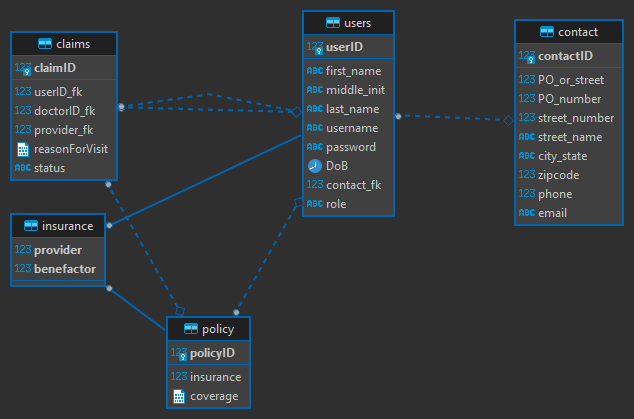
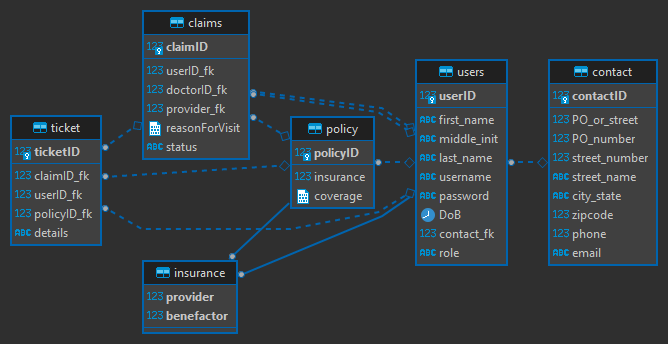
New

diff --git a/DataAccess/Entities/easypickingsContext.cs b/DataAccess/Entities/easypickingsContext.cs
@@ -21,6 +21,7 @@ namespace DataAccess.Entities
         public virtual DbSet<Policy> Policies { get; set; } = null!;
         public virtual DbSet<Test> Tests { get; set; } = null!;
         public virtual DbSet<Test2> Test2s { get; set; } = null!;
+        public virtual DbSet<Ticket> Tickets { get; set; } = null!;
         public virtual DbSet<User> Users { get; set; } = null!;
 
         protected override void OnModelCreating(ModelBuilder modelBuilder)
@@ -142,6 +143,38 @@ namespace DataAccess.Entities
                 entity.ToTable("test2");
 
                 entity.Property(e => e.Hello).HasColumnName("hello");
+            });
+
+            modelBuilder.Entity<Ticket>(entity =>
+            {
+                entity.ToTable("ticket", "P2");
+
+                entity.Property(e => e.TicketId).HasColumnName("ticketID");
+
+                entity.Property(e => e.ClaimIdFk).HasColumnName("claimID_fk");
+
+                entity.Property(e => e.Details)
+                    .IsUnicode(false)
+                    .HasColumnName("details");
+
+                entity.Property(e => e.PolicyIdFk).HasColumnName("policyID_fk");
+
+                entity.Property(e => e.UserIdFk).HasColumnName("userID_fk");
+
+                entity.HasOne(d => d.ClaimIdFkNavigation)
+                    .WithMany(p => p.Tickets)
+                    .HasForeignKey(d => d.ClaimIdFk)
+                    .HasConstraintName("FK__ticket__claimID___76969D2E");
+
+                entity.HasOne(d => d.PolicyIdFkNavigation)
+                    .WithMany(p => p.Tickets)
+                    .HasForeignKey(d => d.PolicyIdFk)
+                    .HasConstraintName("FK__ticket__policyID__787EE5A0");
+
+                entity.HasOne(d => d.UserIdFkNavigation)
+                    .WithMany(p => p.Tickets)
+                    .HasForeignKey(d => d.UserIdFk)
+                    .HasConstraintName("FK__ticket__userID_f__778AC167");
             });
 
             modelBuilder.Entity<User>(entity =>

diff --git a/DataAccess/Entities/User.cs b/DataAccess/Entities/User.cs
@@ -10,6 +10,7 @@ namespace DataAccess.Entities
             ClaimDoctorIdFkNavigations = new HashSet<Claim>();
             ClaimUserIdFkNavigations = new HashSet<Claim>();
             Policies = new HashSet<Policy>();
+            Tickets = new HashSet<Ticket>();
             Providers = new HashSet<Policy>();
         }
 
@@ -27,6 +28,7 @@ namespace DataAccess.Entities
         public virtual ICollection<Claim> ClaimDoctorIdFkNavigations { get; set; }
         public virtual ICollection<Claim> ClaimUserIdFkNavigations { get; set; }
         public virtual ICollection<Policy> Policies { get; set; }
+        public virtual ICollection<Ticket> Tickets { get; set; }
 
         public virtual ICollection<Policy> Providers { get; set; }
     }

diff --git a/DataAccess/Entities/Claim.cs b/DataAccess/Entities/Claim.cs
@@ -5,6 +5,11 @@ namespace DataAccess.Entities
 {
     public partial class Claim
     {
+        public Claim()
+        {
+            Tickets = new HashSet<Ticket>();
+        }
+
         public int ClaimId { get; set; }
         public int? UserIdFk { get; set; }
         public int? DoctorIdFk { get; set; }
@@ -15,5 +20,6 @@ namespace DataAccess.Entities
         public virtual User? DoctorIdFkNavigation { get; set; }
         public virtual Policy? ProviderFkNavigation { get; set; }
         public virtual User? UserIdFkNavigation { get; set; }
+        public virtual ICollection<Ticket> Tickets { get; set; }
     }
 }

diff --git a/DataAccess/Entities/Ticket.cs b/DataAccess/Entities/Ticket.cs
@@ -1,0 +1,18 @@
+using System;
+using System.Collections.Generic;
+
+namespace DataAccess.Entities
+{
+    public partial class Ticket
+    {
+        public int TicketId { get; set; }
+        public int? ClaimIdFk { get; set; }
+        public int? UserIdFk { get; set; }
+        public int? PolicyIdFk { get; set; }
+        public string Details { get; set; } = null!;
+
+        public virtual Claim? ClaimIdFkNavigation { get; set; }
+        public virtual Policy? PolicyIdFkNavigation { get; set; }
+        public virtual User? UserIdFkNavigation { get; set; }
+    }
+}

diff --git a/DataAccess/Entities/Policy.cs b/DataAccess/Entities/Policy.cs
@@ -8,6 +8,7 @@ namespace DataAccess.Entities
         public Policy()
         {
             Claims = new HashSet<Claim>();
+            Tickets = new HashSet<Ticket>();
             Benefactors = new HashSet<User>();
         }
 
@@ -17,6 +18,7 @@ namespace DataAccess.Entities
 
         public virtual User? InsuranceNavigation { get; set; }
         public virtual ICollection<Claim> Claims { get; set; }
+        public virtual ICollection<Ticket> Tickets { get; set; }
 
         public virtual ICollection<User> Benefactors { get; set; }
     }

diff --git a/DataAccess/ClaimsRepo.cs b/DataAccess/ClaimsRepo.cs
@@ -6,7 +6,7 @@ using System.Threading.Tasks;
 
 namespace DataAccess
 {
-    internal class ClaimsRepo
+    internal class ClaimsRepo 
     {
     }
 }
